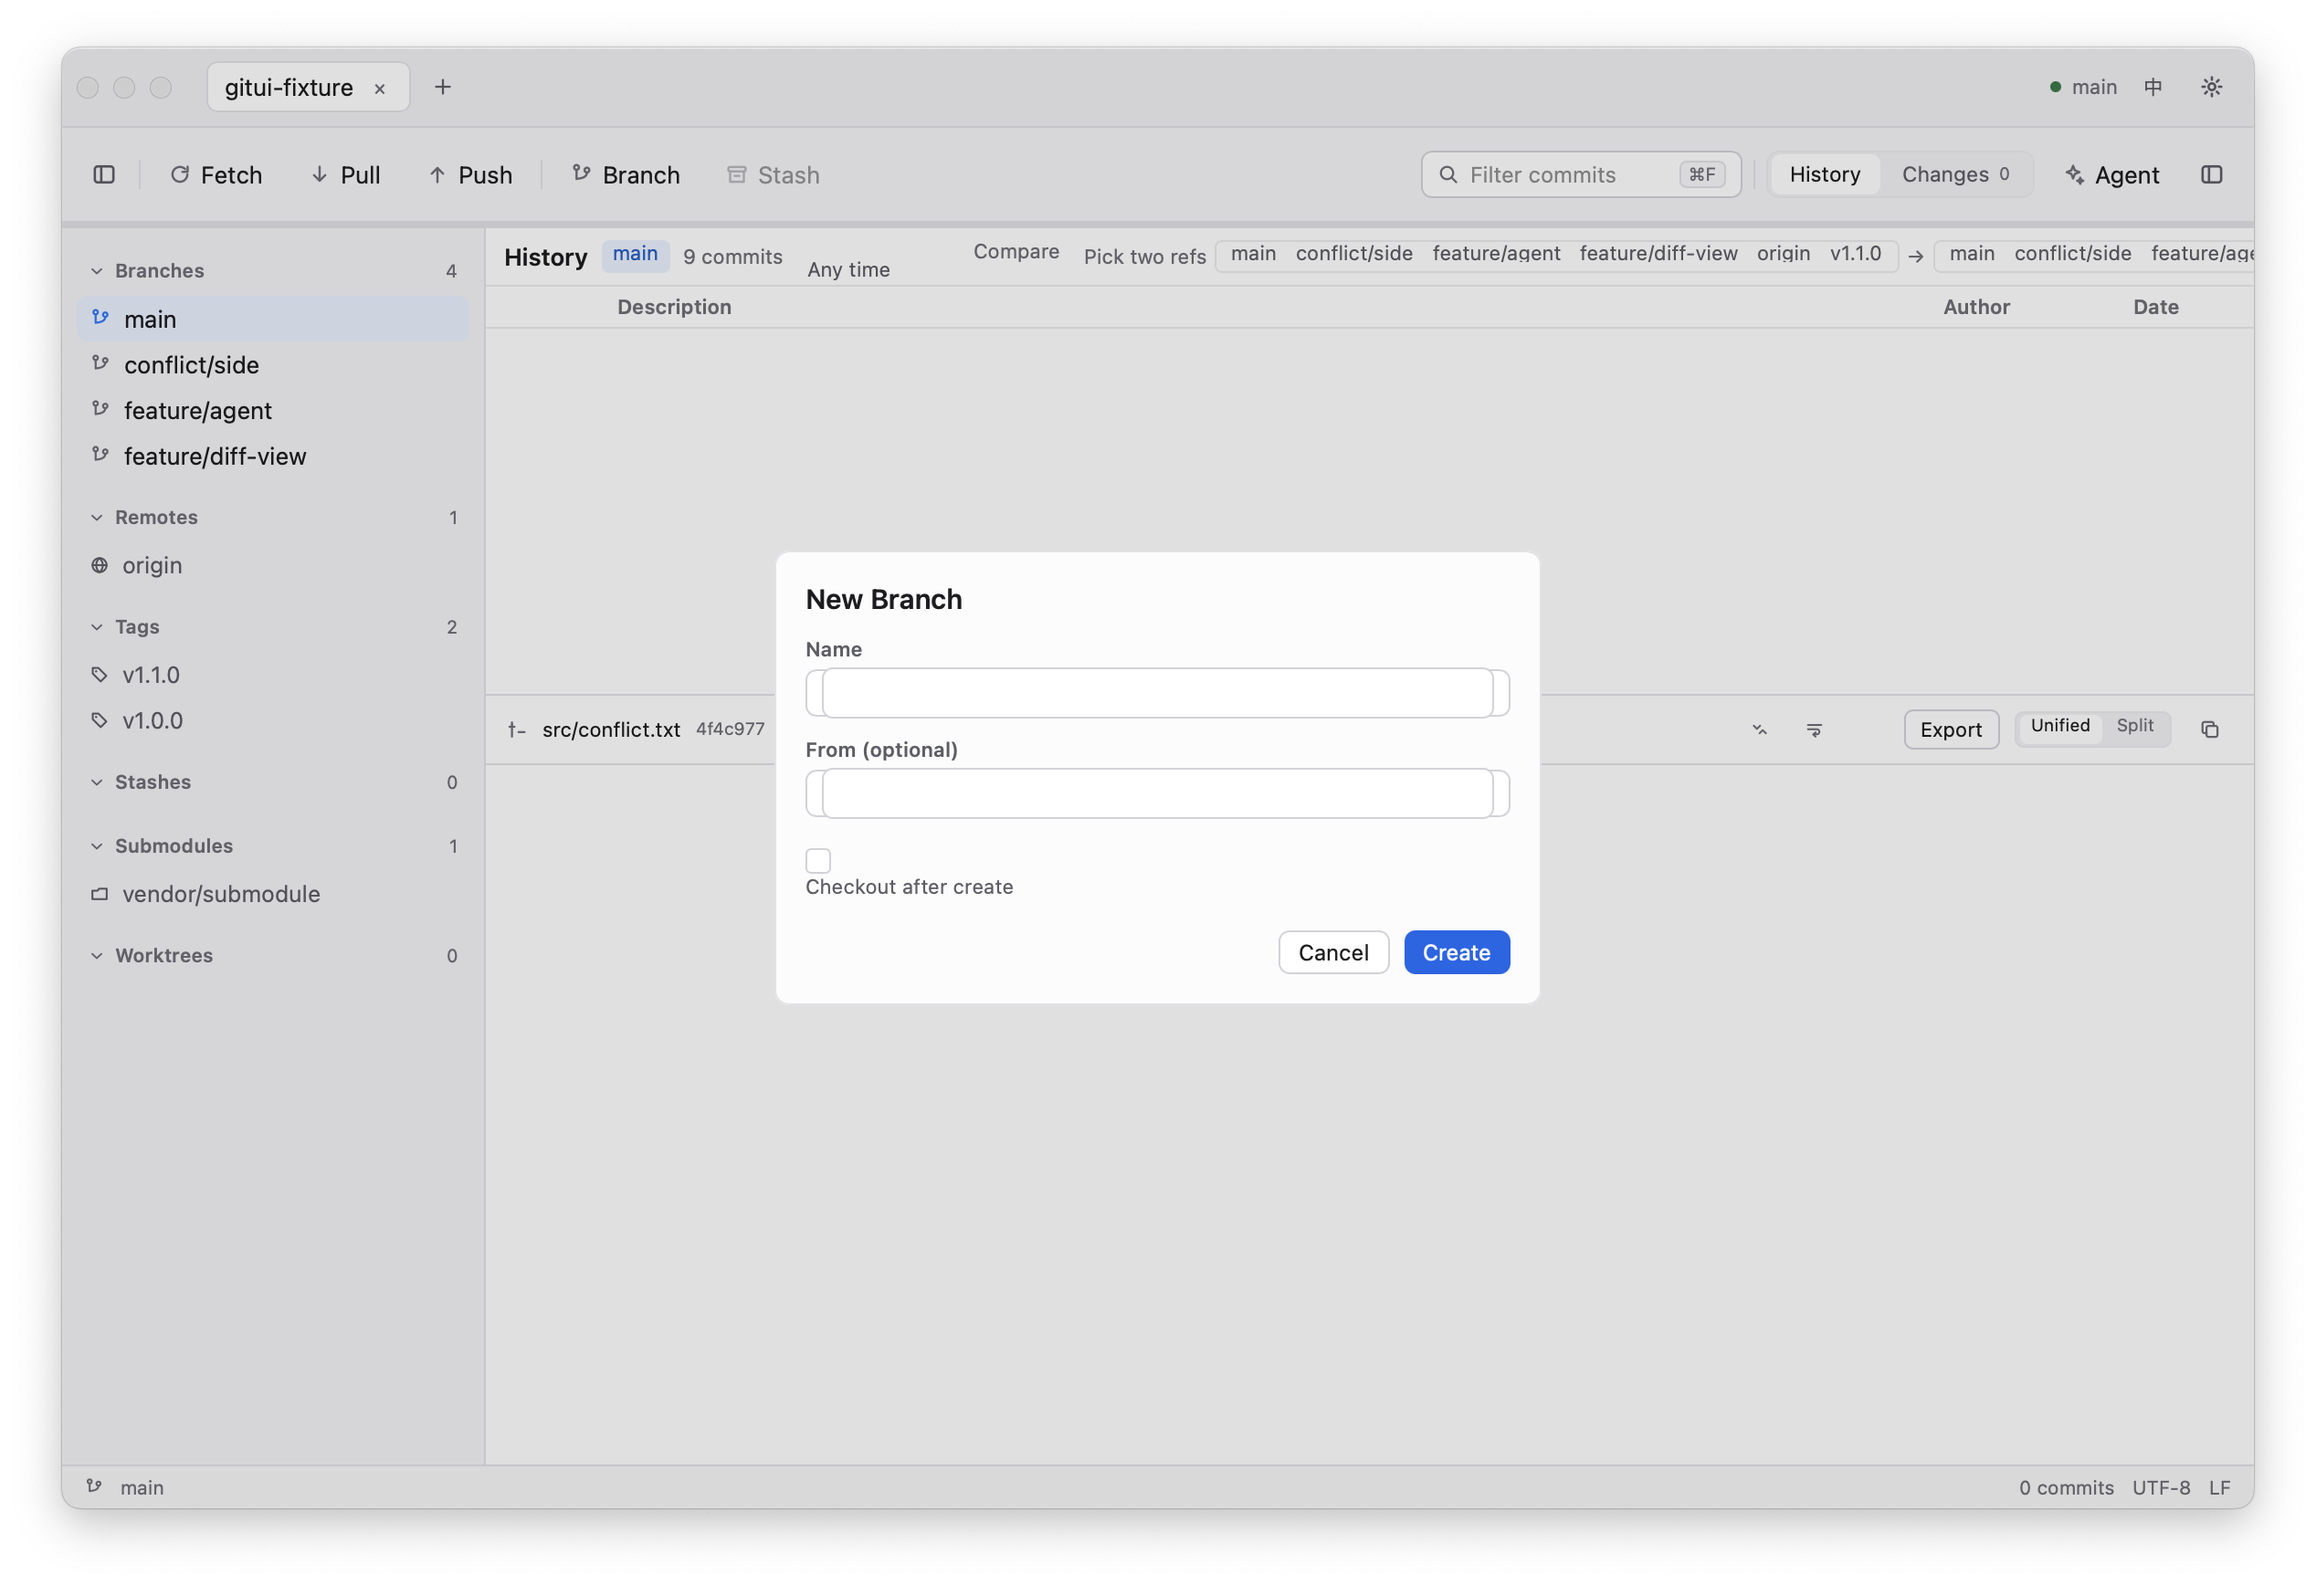
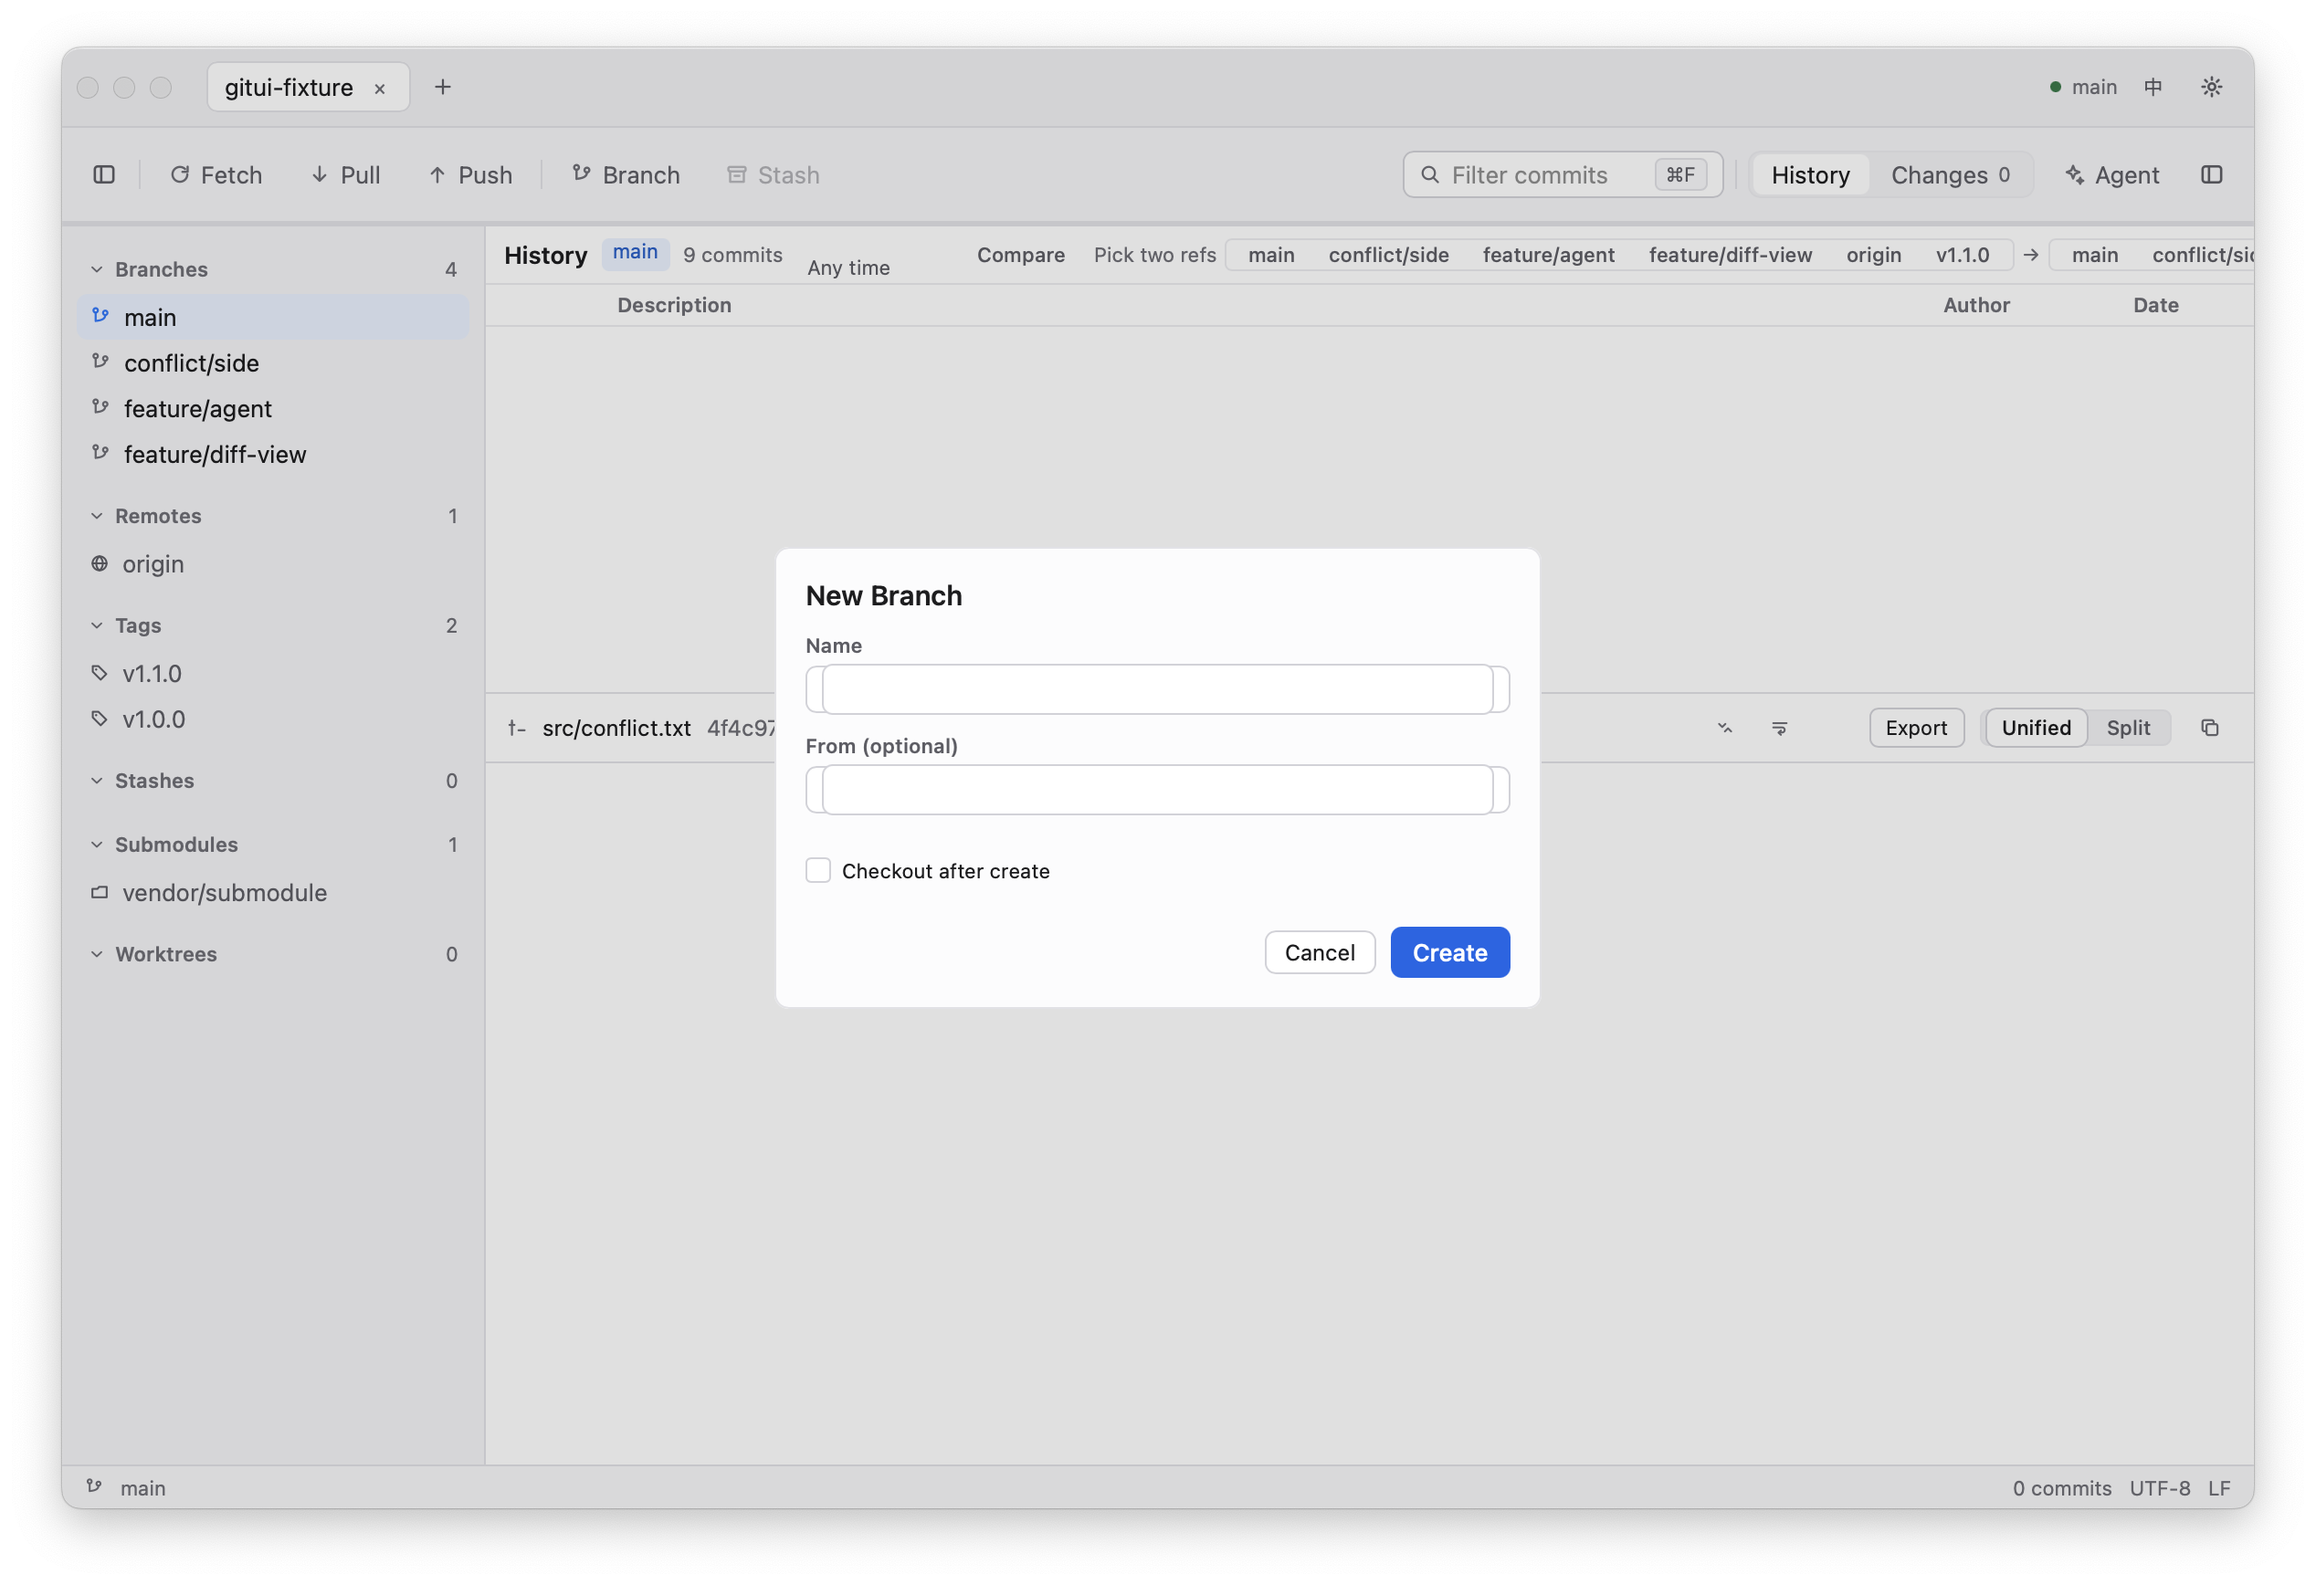
refactor(ui): 复选补行内变体，删掉 widgets::check
表单里的两处复选（`commit` 的「跳过钩子」、`form_dialog` 的「创建后检出」）用的是
`widgets::check`：可变尺寸 + `accent-2` 底色，与 `ui::check_row`（28 高整行、
14pt 指示器、`primary-bg`）不是一个形态。

新增 `ui::check::check_inline(caption, checked, row_height, indicator, disabled,
on_change)`——同一套外观，但行高与指示器尺寸由调用方给，适合 20–22 高的表单行。
两处改用它（22 高，指示器 12 / 14），`widgets::check` 删掉。

截图复核（docs/verify/native/formpanel.png）：表单弹层的「Checkout after create」
方框与标签正常，页脚 Cancel / Create 按钮正常（Create 是新的 28 高 Primary）。

`widgets.rs` 至此只剩 `icon`（7 处）与 `icon_button`（6 处）两类，都是尺寸档位问题。

验证：cargo test --lib 80 项通过，cargo check --all-targets 零警告，
nsh check ✓，tools/check-ui.sh 通过。

diff --git a/apps/client/src/ui/check.rs b/apps/client/src/ui/check.rs
@@ -78,6 +78,64 @@ pub(crate) fn indicator(checked: bool) -> impl IntoElement {
         );
 }
 
+/// 行内复选：与 [`check_row`] 同一套外观，但高度与指示器尺寸由调用方给。
+///
+/// `check_row` 是列表用的整行（28 高、14pt 指示器）；表单里偶尔需要在 20–22 高的
+/// 一行内放复选（「创建后检出」「跳过钩子」），用它。
+pub(crate) fn check_inline(
+    caption: impl Fn() -> String + 'static,
+    checked: bool,
+    row_height: f32,
+    indicator: f32,
+    disabled: bool,
+    on_change: impl Fn(bool) + 'static,
+) -> impl IntoElement {
+    return nsh_base::checkbox()
+        .checked(checked)
+        .disabled(disabled)
+        .opacity(if disabled { 0.45 } else { 1.0 })
+        .h(px(row_height))
+        .flex_row()
+        .items_center()
+        .gap(px(ui::GAP_SM))
+        .indicator_style(move |style| {
+            let style = style
+                .w(px(indicator))
+                .h(px(indicator))
+                .items_center()
+                .justify_center()
+                .rounded(px(3.0))
+                .border_1();
+            if checked {
+                style
+                    .bg(move || design::token("primary-bg"))
+                    .border_color(move || design::token("primary-bg"))
+            } else {
+                style
+                    .bg(move || design::field())
+                    .border_color(move || design::field_border())
+            }
+        })
+        .indicator(dynamic(move || -> AnyElement {
+            if !checked {
+                return view().w(px(0.0)).h(px(0.0)).into_element();
+            }
+            return crate::ui::icon::icon_view(
+                "check",
+                crate::ui::icon::IconSize::Compact,
+                move || design::token("primary-foreground"),
+            )
+            .into_element();
+        }))
+        .on_change(move |next: &bool| on_change(*next))
+        .child(
+            text(move || caption())
+                .text_size(px(ui::SECONDARY))
+                .line_height(px(ui::SECONDARY_LINE))
+                .text_color(move || design::text()),
+        );
+}
+
 pub(crate) fn check_row(
     caption: impl Fn() -> String + 'static,
     checked: bool,

diff --git a/apps/client/src/widgets.rs b/apps/client/src/widgets.rs
@@ -102,55 +102,3 @@ pub(crate) fn icon(
     return holder;
 }
 
-/// 复选行：原生 `Checkbox`（按压、键盘激活、checkbox 角色与值由组件负责）+
-/// 自绘指示器与文案。
-///
-/// 文案作为 `Checkbox` 的子元素，因此整行都是按压目标，屏幕阅读器也能读到。
-/// `checked` 在构建时取值：调用方所在的 `dynamic` 会在状态变化后重建这一行。
-pub(crate) fn check(
-    label: impl Fn() -> String + 'static,
-    checked: bool,
-    size: f32,
-    on_change: impl Fn(bool) + 'static,
-) -> impl IntoElement {
-    return nsh_base::checkbox()
-        .checked(checked)
-        .indicator_style(move |style| {
-            let style = style
-                .w(px(size))
-                .h(px(size))
-                .items_center()
-                .justify_center()
-                .rounded(px(3.0))
-                .border_1();
-            if checked {
-                style
-                    .bg(move || design::accent2())
-                    .border_color(move || design::accent2())
-            } else {
-                style
-                    .bg(move || design::field())
-                    .border_color(move || design::line_strong())
-            }
-        })
-        .indicator(dynamic(move || -> AnyElement {
-            if !checked {
-                return view().w(px(0.0)).h(px(0.0)).into_element();
-            }
-            return view()
-                .w(px(size - 5.0))
-                .h(px(size - 5.0))
-                .child(icon("check", size - 5.0, || {
-                    design::token("primary-foreground")
-                }))
-                .into_element();
-        }))
-        .on_change(move |next: &bool| on_change(*next))
-        .child(
-            text(move || label())
-                .text_size(px(11.0))
-                .line_height(px(14.0))
-                .text_color(move || design::text2()),
-        );
-}
-

diff --git a/apps/client/src/workspace/commit.rs b/apps/client/src/workspace/commit.rs
@@ -350,12 +350,14 @@ fn checkbox_row(
     checked: bool,
     on_press: impl Fn() + 'static,
 ) -> impl IntoElement {
-    // 原生 Checkbox：按压、键盘激活与无障碍状态由组件负责，样式由 widgets 统一。
+    // 原生 Checkbox：按压、键盘激活与无障碍状态由组件负责，外观取自 ui 层。
     let toggle = move |_next: bool| on_press();
-    return crate::widgets::check(
+    return crate::ui::check::check_inline(
         move || i18n::t(language.get().as_str(), key),
         checked,
+        22.0,
         12.0,
+        false,
         toggle,
     );
 }

diff --git a/apps/client/src/screens/form_dialog.rs b/apps/client/src/screens/form_dialog.rs
@@ -302,10 +302,12 @@ fn flag_row(
         .h(px(22.0))
         .flex_row()
         .items_center()
-        .child(crate::widgets::check(
+        .child(crate::ui::check::check_inline(
             move || i18n::t(language.get().as_str(), label_key),
             form.flag,
+            22.0,
             14.0,
+            false,
             toggle,
         ));
 }

diff --git a/docs/UI-KIT.md b/docs/UI-KIT.md
@@ -40,6 +40,7 @@ NSH 把界面分成三层：`nsh-core` 提供原语与布局，`nsh-base` 提供
 | `text_area` | `ui/text_input.rs` | `nsh_base::input(multiline)` | 自定义高度 | focus-visible、invalid | 提交说明、附注、冲突结果 |
 | `field` | `ui/field.rs` | `view` + `text` | — | invalid | 标签 13 + 控件 + 帮助/错误 11；错误与帮助互斥 |
 | `check_row` | `ui/check.rs` | `nsh_base::checkbox` | 行高 28 | checked、disabled | 整行是按压目标，14pt 指示器 |
+| `check_inline` | `ui/check.rs` | `nsh_base::checkbox` | 行高与指示器由调用方给（22 高 / 12–14） | checked、disabled | 表单里在矮行内放复选（「创建后检出」「跳过钩子」）；列表用 `check_row` |
 | `indicator` | `ui/check.rs` | `view` | 12×12 | — | 方框标记，**没有自己的按压**；用于表格单元格等「不能整行勾选」的场合 |
 | `indicator_action` | `ui/check.rs` | `nsh_base::button` | 12×12 | checked | 可点的方框（外观同 `indicator`）；点它只切换开关、不选中行——`data_table` 会把按压交给单元格视图，吞掉后不触发行选中 |
 | `switch_row` | `ui/check.rs` | `nsh_base::switch` | 38×22 轨道 | checked、disabled | 左侧文案 + 可选说明，右侧开关 |
